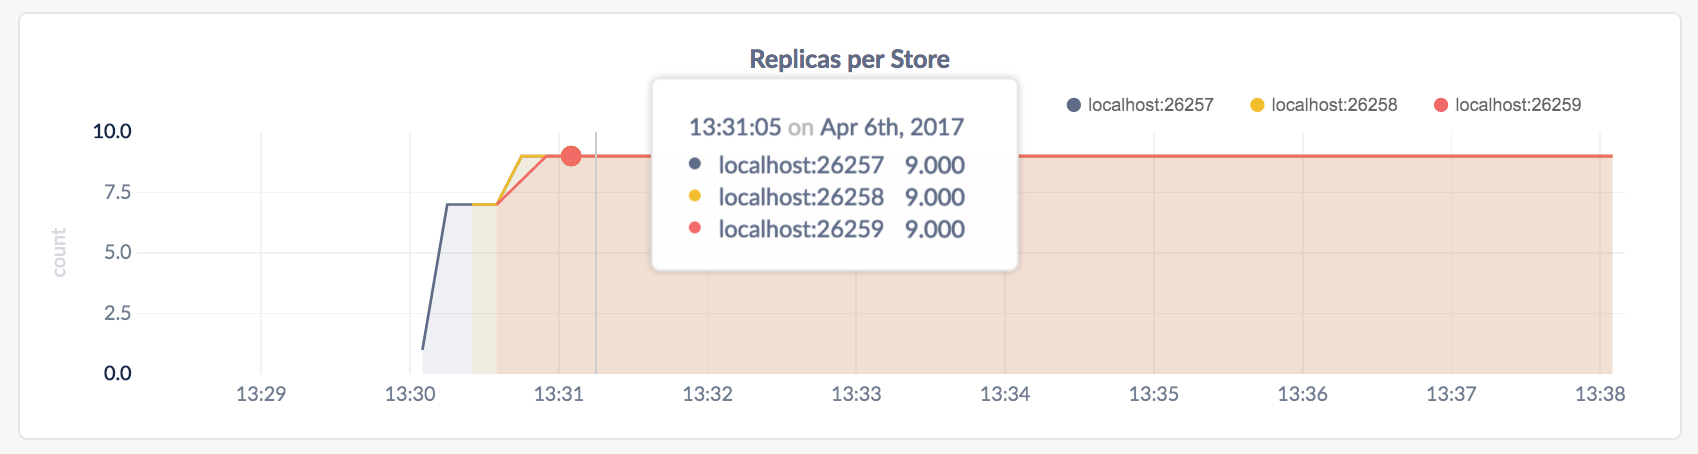
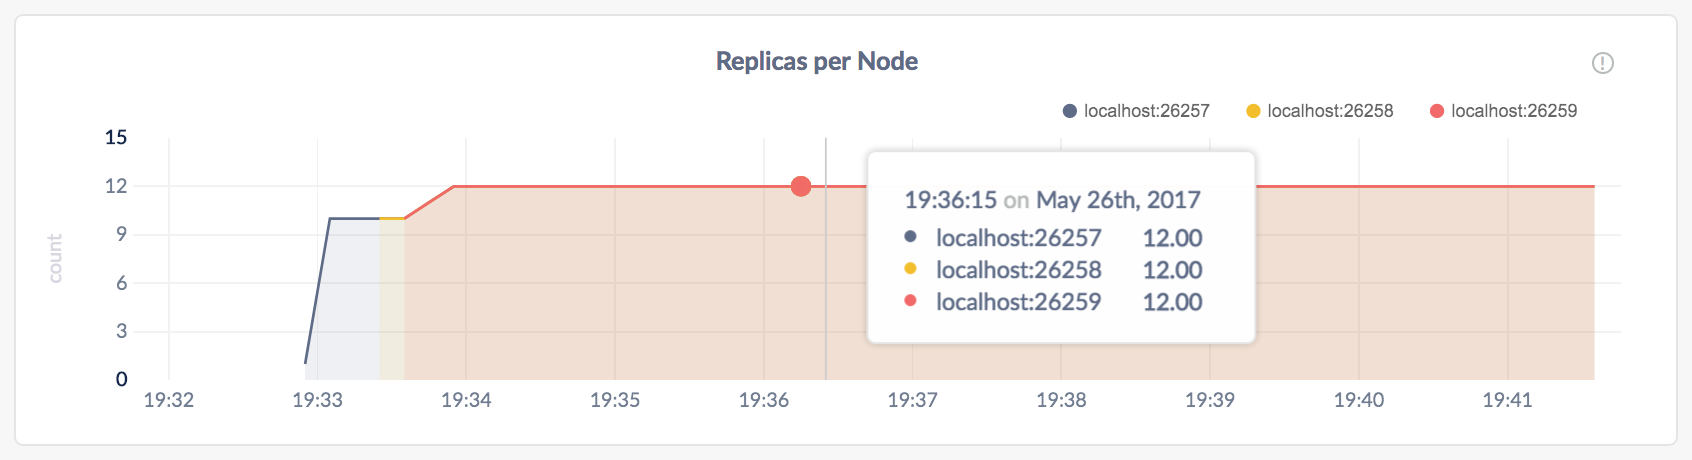
Update start a local cluster tutorial
- Remove use of --background flag
- Add step to restart the cluster
- Update admin ui screenshots

Partly addresses #1403

diff --git a/start-a-local-cluster.md b/start-a-local-cluster.md
@@ -26,8 +26,7 @@ Also, feel free to watch this process in action before going through the steps y
 
 ~~~ shell
 $ cockroach start --insecure \
---host=localhost \
---background
+--host=localhost
 ~~~
 
 ~~~
@@ -47,42 +46,41 @@ This command starts a node in insecure mode, accepting most [`cockroach start`](
 - The `--insecure` flag makes communication unencrypted.
 - Since this is a purely local cluster, `--host=localhost` tells the node to listens only on `localhost`, with default ports used for internal and client traffic (`26257`) and for HTTP requests from the Admin UI (`8080`).
 - Node data is stored in the `cockroach-data` directory.
-- The `--background` flag runs the node in the background so you can continue the next steps in the same shell.
 - The [standard output](start-a-node.html#standard-output) gives you helpful details such as the CockroachDB version, the URL for the admin UI, and the SQL URL for clients.
 
 {{site.data.alerts.callout_success}}By default, each node's cache is limited to 25% of available memory. This default is reasonable when running one node per host. When you run multiple nodes on a single host, however, this default may lead to out-of-memory errors, especially if you test in a serious way. To avoid such errors, you can limit each node's cache size by setting the <code>--cache</code> flag in the <code>start</code> command.{{site.data.alerts.end}}
 
 ## Step 2. Add nodes to the cluster
 
-At this point, your cluster is live and operational. With just one node, you can already connect a SQL client and start building out your database. In real deployments, however, you'll always want 3 or more nodes to take advantage of CockroachDB's [automatic replication](demo-data-replication.html), [rebalancing](demo-automatic-rebalancing.html), and [fault tolerance](demo-fault-tolerance-and-recovery.html) capabilities.
+At this point, your cluster is live and operational. With just one node, you can already connect a SQL client and start building out your database. In real deployments, however, you'll always want 3 or more nodes to take advantage of CockroachDB's [automatic replication](demo-data-replication.html), [rebalancing](demo-automatic-rebalancing.html), and [fault tolerance](demo-fault-tolerance-and-recovery.html) capabilities. This step helps you simulate a real deployment locally.
 
-To simulate a real deployment, scale your cluster by adding two more nodes:
+In a new terminal, add the second node:
 
 ~~~ shell
-# Start the second node:
 $ cockroach start --insecure \
 --store=node2 \
 --host=localhost \
 --port=26258 \
 --http-port=8081 \
---join=localhost:26257 \
---background
+--join=localhost:26257
+~~~
 
-# Start the third node:
+In a new terminal, add the third node:
+
+~~~ shell
 $ cockroach start --insecure \
 --store=node3 \
 --host=localhost \
 --port=26259 \
 --http-port=8082 \
---join=localhost:26257 \
---background
+--join=localhost:26257
 ~~~
 
-The main difference here is that you use the `--join` flag to connect the new nodes to the cluster, specifying the address and port of the first node, in this case `localhost:26257`. Since you're running all nodes on the same machine, you also set the `--store`, `--port`, and `--http-port` flags to locations and ports not used by other nodes, but in a real deployment, with each node on a different machine, the defaults would suffice.
+The main difference in these commands is that you use the `--join` flag to connect the new nodes to the cluster, specifying the address and port of the first node, in this case `localhost:26257`. Since you're running all nodes on the same machine, you also set the `--store`, `--port`, and `--http-port` flags to locations and ports not used by other nodes, but in a real deployment, with each node on a different machine, the defaults would suffice.
 
 ## Step 3. Test the cluster
 
-Now that you've scaled to 3 nodes, you can use any node as a SQL gateway to the cluster. To demonstrate this, start the [built-in SQL client](use-the-built-in-sql-client.html) on node 1:
+Now that you've scaled to 3 nodes, you can use any node as a SQL gateway to the cluster. To demonstrate this, open a new terminal and connect the [built-in SQL client](use-the-built-in-sql-client.html) to node 1:
 
 {{site.data.alerts.callout_info}}The SQL client is built into the <code>cockroach</code> binary, so nothing extra is needed.{{site.data.alerts.end}}
 
@@ -120,7 +118,7 @@ Exit the SQL shell on node 1:
 > \q
 ~~~
 
-Then start the SQL shell on node 2, this time specifying the node's non-default port:
+Then connect the SQL shell to node 2, this time specifying the node's non-default port:
 
 ~~~ shell
 $ cockroach sql --insecure --port=26258
@@ -148,7 +146,7 @@ Now run the same `SELECT` query:
 
 As you can see, node 1 and node 2 behaved identically as SQL gateways.
 
-When you're done, exit the SQL shell on node 2:
+Exit the SQL shell on node 2:
 
 ~~~ sql
 > \q
@@ -160,7 +158,7 @@ To access the [Admin UI](explore-the-admin-ui.html) for your cluster, point a br
 
 <img src="images/admin_ui.png" alt="CockroachDB Admin UI" style="border:1px solid #eee;max-width:100%" />
 
-As mentioned earlier, CockroachDB automatically replicates your data behind-the-scenes. To verify that data written in the previous step was replicated successfully, scroll down to the **Replicas per Store** graph and hover over the line:
+As mentioned earlier, CockroachDB automatically replicates your data behind-the-scenes. To verify that data written in the previous step was replicated successfully, scroll down to the **Replicas per Node** graph and hover over the line:
 
 <img src="images/admin_ui_replicas.png" alt="CockroachDB Admin UI" style="border:1px solid #eee;max-width:100%" />
 
@@ -170,13 +168,13 @@ The replica count on each node is identical, indicating that all data in the clu
 
 ## Step 5.  Stop the cluster
 
-Once you're done with your test cluster, stop the first node:
+Once you're done with your test cluster, open a new terminal and stop the first node:
 
 ~~~ shell
 $ cockroach quit --insecure
 ~~~
 
-With 2 nodes still online, the cluster remains operational because a majority of replicas are still available. You can verify that the cluster has tolerated this "failure" by starting the built-in SQL shell on nodes 2 or 3:
+At this point, with 2 nodes still online, the cluster remains operational because a majority of replicas are available. To verify that the cluster has tolerated this "failure", connect the built-in SQL shell to nodes 2 or 3. You can do this in the same terminal or in a new terminal.
 
 ~~~ shell
 $ cockroach sql --insecure --port=26258
@@ -198,26 +196,58 @@ $ cockroach sql --insecure --port=26258
 (1 row)
 ~~~
 
-Now stop the second node:
+Exit the SQL shell:
 
+~~~ sql
+> \q
 ~~~
+
+Now stop the second and third nodes. Again, you can do this in the same terminal or in a new terminal.
+
+~~~ shell
+# Stop the second node:
 $ cockroach quit --insecure --port=26258
+
+# Stop the third node:
+$ cockroach quit --insecure --port=26259
 ~~~
 
-With only 1 node online, a majority of replicas are no longer available, and so the cluster is not operational. As a result, you can't use `cockroach quit` to stop the last node, but instead must get the node's process ID and then force kill it:
+{{site.data.alerts.callout_info}}The <code>cockroach quit</code> command for node 3 will take longer to respond (about a minute) and will eventually force kill the node. This is because, with only 1 of 3 nodes left, a majority of replicas are not available, and so the cluster is no longer operational.{{site.data.alerts.end}}
+
+## Step 6. Restart the cluster
+
+If you decide to use the cluster for further testing, you'll need to restart at least 2 of your 3 nodes from the directories containing the nodes' data stores.
+
+Restart the first node from the parent directory of `cockroach-data/`:
 
 ~~~ shell
-# Get the process ID for node 3:
-$ ps | grep cockroach
+$ cockroach start --insecure \
+--host=localhost
 ~~~
 
-~~~
-5084 ttys001    0:50.15 cockroach start --insecure --store=node3 --port=26259 --http-port=8082 --join=localhost:26257
-~~~
+{{site.data.alerts.callout_info}}With only 1 node back online, the cluster will not yet be operational, so you won't see a response to the above command until after you restart the second node.
+{{site.data.alerts.end}}
+
+In a new terminal, restart the second node from the parent directory of `node2/`:
 
 ~~~ shell
-# Force quit the process:
-$ kill -9 5084
+$ cockroach start --insecure \
+--store=node2 \
+--host=localhost \
+--port=26258 \
+--http-port=8081 \
+--join=localhost:26257
+~~~
+
+In a new terminal, restart the third node from the parent directory of `node3/`:
+
+~~~ shell
+$ cockroach start --insecure \
+--store=node3 \
+--host=localhost \
+--port=26259 \
+--http-port=8082 \
+--join=localhost:26257
 ~~~
 
 ## What's Next?
